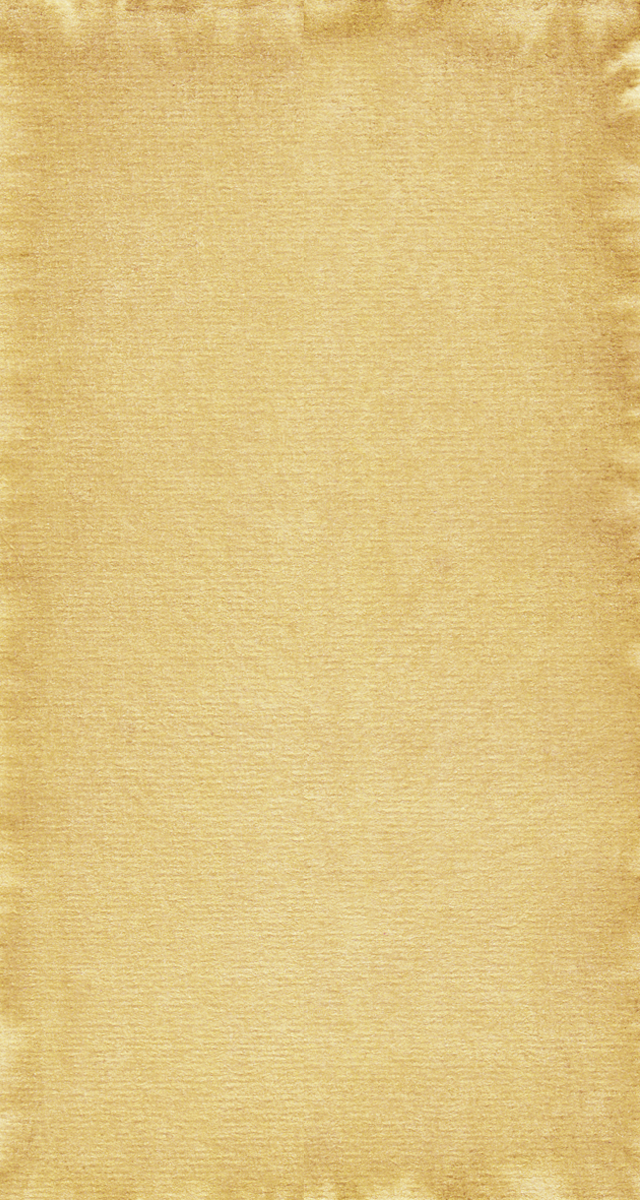
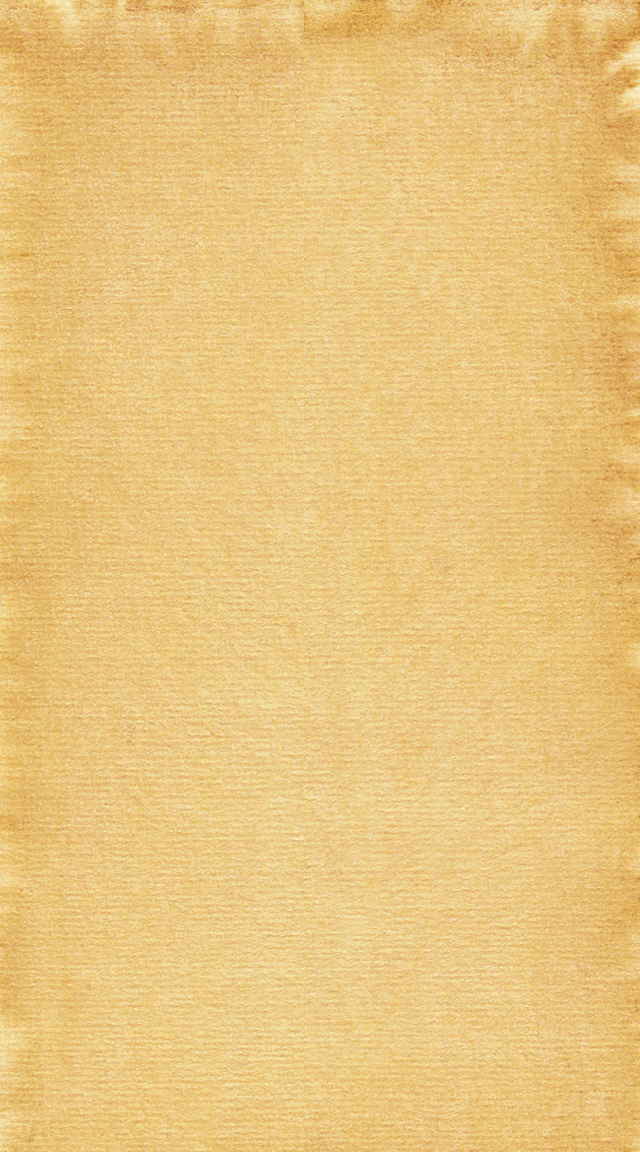
Both tutorials are in the right place. New Tweet background

Changed region(s): [[0.0, 0.0, 1.0, 1.0]]

diff --git a/src/words/tweet.js b/src/words/tweet.js
@@ -5,8 +5,9 @@
 $42.TWEET_TEXT_WIDTH = 640;
 $42.TWEET_TEXT_HEIGHT = 860;
 $42.TWEET_TEXT_TEXT_SIZE = 52;
+$42.TWEET_TEXT_TEXT_COLOR = cc.color(0,0,0,255);
 $42.TWEET_TEXT_POS = cc.p(0, 1136-$42.TWEET_TEXT_HEIGHT);
-$42.TWEET_TEXT_COLOR = cc.color(255,255,240,120);
+$42.TWEET_TEXT_COLOR = cc.color(255,255,240,0);
 $42.TWEET_TEXT_TWEET_COLOR = cc.color(0,0,180,222);
 $42.TWEET_TEXT_PADDING = 30;
 $42.TWEET_TEXT_LINEHEIGHT = 75;
@@ -18,7 +19,7 @@ $42.TWEET_NAMES_ID = 101;
 $42.TWEET_SHORTIES_WIDTH = 640;
 $42.TWEET_SHORTIES_HEIGHT = 180;
 $42.TWEET_SHORTIES_POS = cc.p(0, 1136-$42.TWEET_TEXT_HEIGHT-$42.TWEET_SHORTIES_HEIGHT);
-$42.TWEET_SHORTIES_COLOR = cc.color(240,240,255,100);
+$42.TWEET_SHORTIES_COLOR = cc.color(240,240,255,40);
 $42.TWEET_SHORTIES_LINEHEIGHT = 75;
 $42.TWEET_SHORTIES_LINES = 2;
 $42.TWEET_SHORTIES_SPACE_WIDTH = 40;
@@ -88,6 +89,9 @@ var _TWEET_MODULE = function(layer) {
         tLayer.setCascadeOpacityEnabled(true);
         tLayer.setOpacity(0);
         _42_retain(tLayer, "Tweet layer");
+		var background = cc.Sprite.create(res.twitter_png);
+        background.setPosition(cc.width/2,cc.height/2);
+        tLayer.addChild(background);
 
         ////////////////////////////////////
         // init text layer
@@ -355,7 +359,7 @@ var _TWEET_MODULE = function(layer) {
             }
 
 			label.setPosition(cc.p(padding + x + size.width/2, textHeight - padding - y - size.height/2));
-			label.setColor(cc.color(0,0,0));
+			label.setColor($42.TWEET_TEXT_TEXT_COLOR);
             label.setCascadeOpacityEnabled(true);
 			_42_retain(label, "moveable word");	
 			txLayer.addChild(label, 5);
@@ -399,6 +403,7 @@ var _TWEET_MODULE = function(layer) {
 			var label = cc.LabelTTF.create(sh[i], _42_getFontName(res.shadows_into_light_ttf) , $42.TWEET_TEXT_TEXT_SIZE),
                 size = label.getContentSize();
             
+            label.setColor($42.TWEET_TEXT_TEXT_COLOR);
             selectableWords.push(label);
 
             mvLayer.addChild(label);
@@ -453,17 +458,19 @@ var _TWEET_MODULE = function(layer) {
 
             if( cnt <= 140 ) menuTweetCnt = i;
             if( tweet ) {
+                var rTime = 0.33*Math.random();
                 mw[i].runAction(
                     cc.repeatForever(
                         cc.sequence(
-                            cc.EaseSineOut.create(cc.fadeTo(0.33,50)),
-                            cc.EaseSineIn.create(cc.fadeIn(0.33))
+                            cc.EaseSineOut.create(cc.fadeTo(0.33+rTime,180)),
+                            cc.EaseSineIn.create(cc.fadeIn(0.33+rTime))
                         )
                     )
                 );
             } else {
                 if( tweet === false ) mv[i].stopAllActions();
-                mw[i].setColor($42.TWEET_TEXT_COLOR);
+                mw[i].setColor($42.TWEET_TEXT_TEXT_COLOR);
+                mw[i].setOpacity(255);
                 mw[i].runAction(
                     cc.EaseSineOut.create(
                         cc.rotateTo($42.TWEET_TEXT_MOVING_TIME, 0)
@@ -542,6 +549,7 @@ var _TWEET_MODULE = function(layer) {
                         x: pos.x - loc.x,
                         y: pos.y - loc.y
                     }
+                    touchMovingLabel.setColor($42.TWEET_TEXT_TEXT_COLOR);
                     touchMovingLabel.setPosition(pos);
                     touchMovingLabel.setOpacity(128);
                     tLayer.addChild(touchMovingLabel,10);
@@ -790,7 +798,7 @@ var _TWEET_MODULE = function(layer) {
                             sw.push(touchMovingLabel);
                             touchMovingLabel.setOpacity(255);
                             touchMovingLabel.setScale(1);
-                            touchMovingLabel.setColor(cc.color(255,255,255))
+                            touchMovingLabel.setColor($42.TWEET_TEXT_TEXT_COLOR);
 
                             distributeShorties();
 

diff --git a/src/words/murbiks.js b/src/words/murbiks.js
@@ -37,6 +37,7 @@ $42.STORY_BACKGROUND_OPACITY = 90;
 $42.STORY_BACKGROUND_SPEED = 1.33;
 $42.STORY_MENU_FONT_SIZE = 48;
 $42.STORY_MENU_PADDING = 20;
+$42.STORY_MENU_TAG = 222;
 $42.STORY_SCALE_PRESS_FINGER = 0.9;
 
 var _MURBIKS_MODULE = function(parentLayer) {
@@ -320,7 +321,7 @@ var _MURBIKS_MODULE = function(parentLayer) {
         var sb = storyBackground,
             marker = [];
 
-        var markersInit = [0,0,0,1,1,1,1,1,1];
+        var markersInit = [0,0,0,1,-1,1,1,1,1];
         var resetMarker = function(i,type) {
             sb.removeChild(marker[i]);
             marker[i] = cc.Sprite.create(cc.spriteFrameCache.getSpriteFrame(type || "marker"+markersInit[i]+".png"));
@@ -369,7 +370,7 @@ var _MURBIKS_MODULE = function(parentLayer) {
                     cc.moveBy(time4,cc.p(-100,-280)),
                     cc.callFunc(function() {
                         marker[3].setOpacity(255)
-                        marker[4].setOpacity(255)
+                        //marker[4].setOpacity(255)
                     })
                 )
             );
@@ -378,7 +379,7 @@ var _MURBIKS_MODULE = function(parentLayer) {
                 cc.sequence(
                     cc.delayTime(time0+time1),
                     cc.fadeIn(0),
-                    cc.EaseSineOut.create(cc.moveTo(time2,cc.p(360,500))),
+                    cc.EaseSineOut.create(cc.moveTo(time2,cc.p(390,500))),
                     cc.scaleTo(time3,$42.STORY_SCALE_PRESS_FINGER),
                     cc.moveBy(time4,cc.p(-100,-280)),
                     cc.EaseSineIn.create(cc.moveTo(time2,cc.p(size.width*1.2,size.height/4))),
@@ -709,6 +710,9 @@ var _MURBIKS_MODULE = function(parentLayer) {
                 )
             )
         );
+        
+        var ch = sb.getChildren();
+        for( var i=0 ; i<ch.length ; i++ ) ch[i].setOpacity(255);
 
         var size = sb.getContentSize();
         
@@ -750,7 +754,7 @@ var _MURBIKS_MODULE = function(parentLayer) {
         
         menu = new cc.Menu([item1, item2]);
         menu.setPosition(cc.p(size.width/2,40));
-        sb.addChild(menu);
+        sb.addChild(menu,0,$42.STORY_MENU_TAG);
 
         var page=0;
         item1.setOpacity(0);
@@ -787,6 +791,10 @@ var _MURBIKS_MODULE = function(parentLayer) {
                 ) 
             ); 
         }
+
+        setTimeout(function() {
+            for( var i=0 ; i<ch.length ; i++ ) ch[i].setOpacity(255);
+        },$42.STORY_BACKGROUND_SPEED*1000+1);
     };
 
 	var hideSpeechBubble = function(time) {
@@ -987,8 +995,7 @@ var _MURBIKS_MODULE = function(parentLayer) {
     var programs = {
         "Mostafas Greeting": animMostafasGreeting,
         "Mostafa flies away": animMostafaFlyingAway,
-        //"Story Basic Concepts": animStoryBasicConcepts,
-        "Story Basic Concepts": animStoryAdvancedConcepts,
+        "Story Basic Concepts": animStoryBasicConcepts,
         "Story Advanced Concepts": animStoryAdvancedConcepts
     };
 };

diff --git a/src/words/words.js b/src/words/words.js
@@ -28,7 +28,6 @@
 //          - names
 //          - cities
 //
-//
 //  - In given mode word should just fly away without asking
 //
 //  GIVEN
@@ -1949,7 +1948,7 @@ var _42_MODULE = function(_42Layer) {
         var td = $42.tutorialsDone,
             ls = cc.sys.localStorage;
 
-        if( true || !td.basicConcepts ) {
+        if( !td.basicConcepts && $42.currentLevel == 1 ) {
             setTimeout(function() {
                 var oldLabel = ml.levelLabels[0].getString();
                 ml.levelLabels[0].setString("ANNA");
@@ -1971,7 +1970,26 @@ var _42_MODULE = function(_42Layer) {
                     }
                 });
            }, 9000); 
-        }
+         } else if( !td.advancedConcepts && $42.currentLevel == 6 ) {
+            setTimeout(function() {
+                ml.stopListeners();
+                ml.unscheduleUpdate();
+                ml._currentTile.sprite.runAction(cc.fadeTo(1,50));
+
+                $42.SCENE.hookStartAnimation("Story Advanced Concepts", {
+                    time: 2,
+                    cb: function() {
+                        ml.initListeners();
+                        ml.scheduleUpdate();
+                        ml._currentTile.sprite.runAction(cc.fadeIn(0.5));
+
+                        td.advancedConcepts = true;
+                        ls.setItem("tutorialsDone", JSON.stringify(td));
+                    }
+                });
+           }, 9000); 
+            
+         }
     };    
 
 	/*

diff --git a/src/resource.js b/src/resource.js
@@ -15,6 +15,7 @@ var res = {
 	background05_png : "res/images/backgrounds/level05.png",
 	background06_png : "res/images/backgrounds/level06.png",
 	background07_png : "res/images/backgrounds/level07.png",
+	twitter_png : "res/images/backgrounds/twitter.png",
 	background_element1_png : "res/images/backgrounds/element1.png",
 	background_element2_png : "res/images/backgrounds/element2.png",
     background_levelnr_png : "res/images/backgrounds/levelnr.png",
